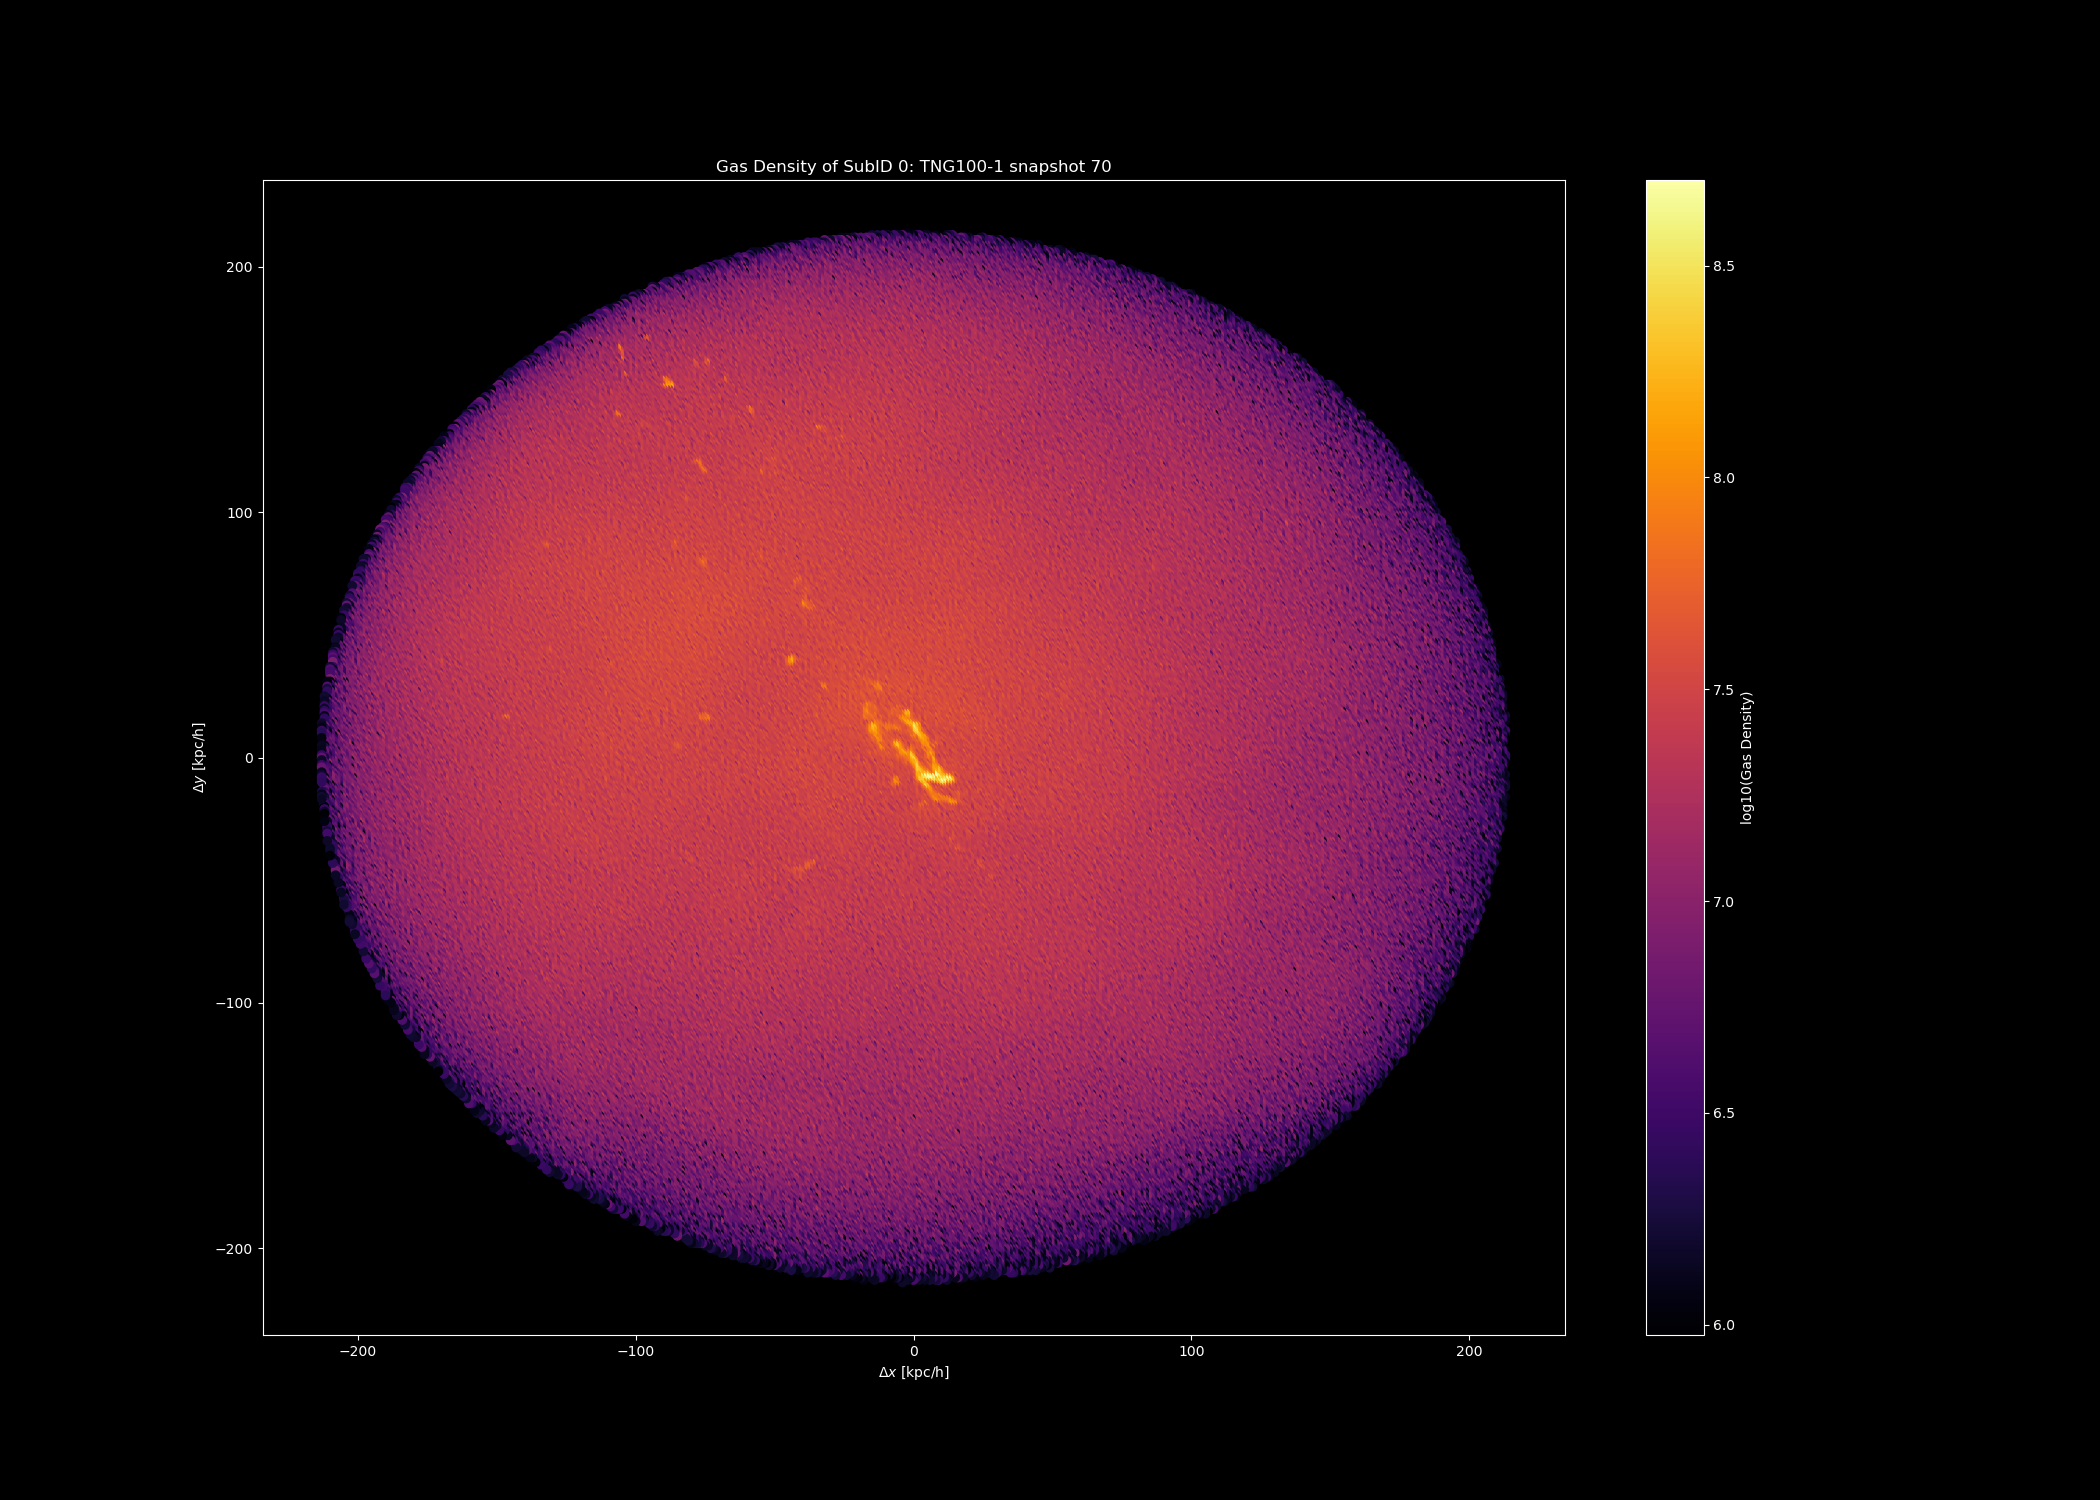
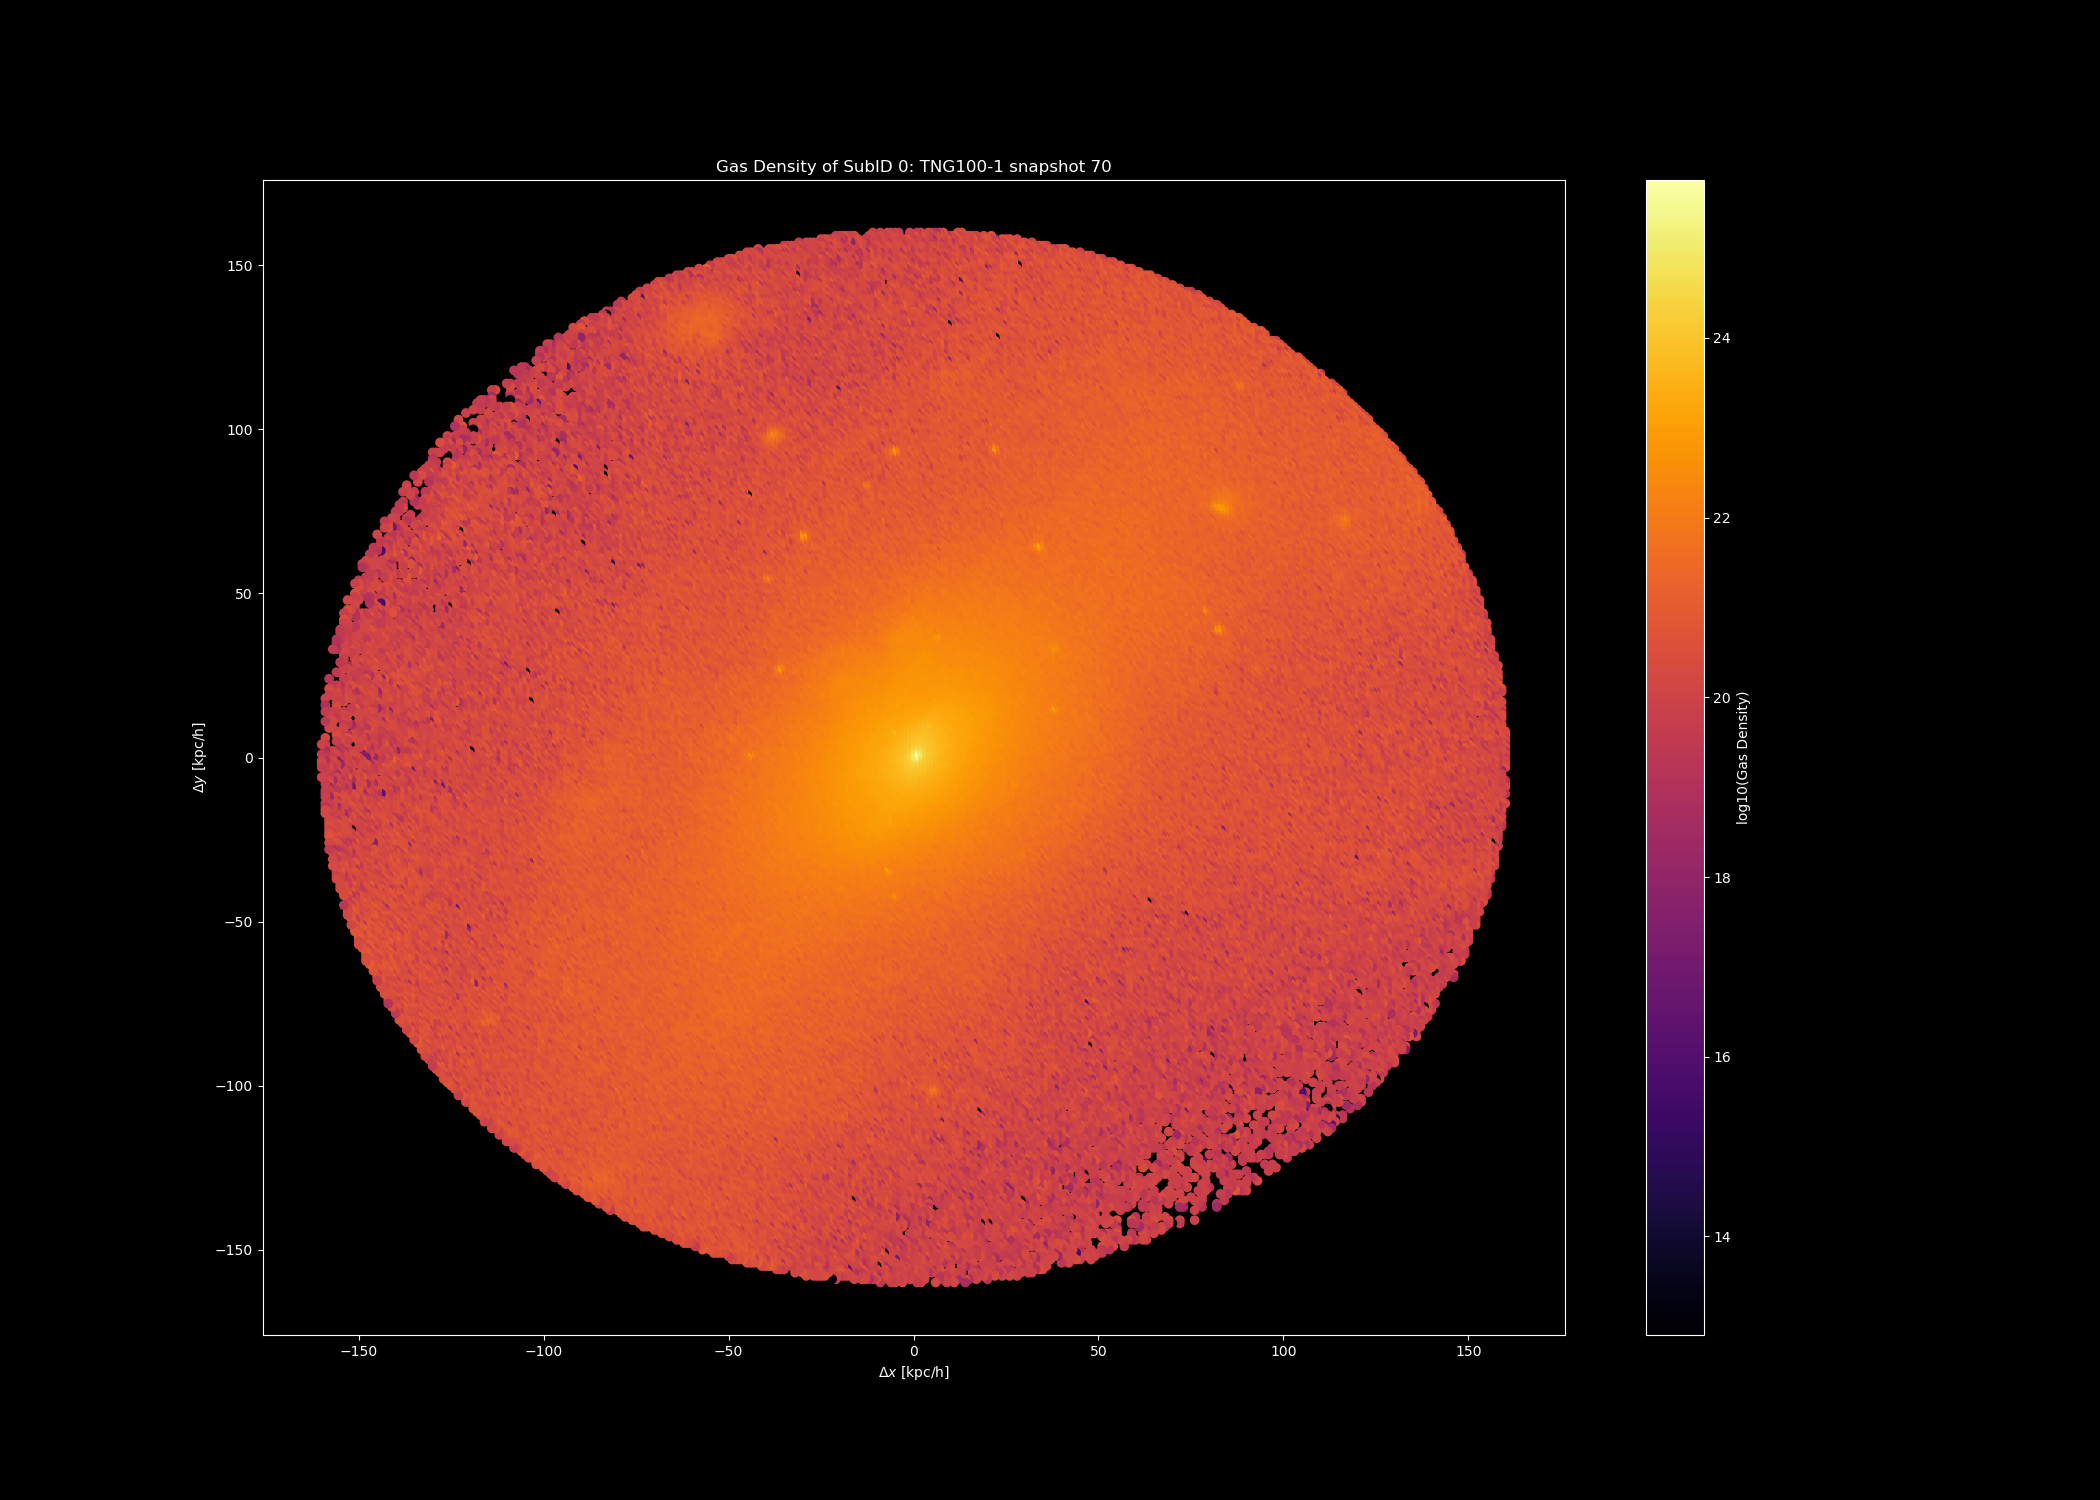
metallicity plots complete

Changed region(s): [[0.1238, 0.1533, 0.7429, 0.8587], [0.8048, 0.46, 0.8357, 0.552]]

diff --git a/class_il/classrad.py b/class_il/classrad.py
@@ -1,5 +1,6 @@
 
-import logging # http logging for debugging purpouses
+import logging
+from random import random # http logging for debugging purpouses
 import time #runtime calculation import numpy as np #data handling 
 import requests #obtain data from API server
 import h5py #binary file manipulation
@@ -76,8 +77,8 @@ class galaxy:
         # Velocities  (N,3) km sqrt(scalefac)        # We convert these to pkpc (proper kpc), Msun and km/s, respectively
         crit_dist = 5 * self.Rhalf #30. # proper kpc
         self.crit_dist = crit_dist
-        hcoldgas  = np.where( (gas['StarFormationRate'] > 0.) & (np.sum((gas['Coordinates']/hubble / (1. + redshift) - self.centre[None,:])**2, axis=1) < crit_dist**2) )[0]
-        #hcoldgas  = (np.sum((gas['Coordinates']/hubble / (1. + redshift) - self.centre[None,:])**2, axis=1) < crit_dist**2)
+        #hcoldgas  = np.where( (gas['StarFormationRate'] > 0.) & (np.sum((gas['Coordinates']/hubble / (1. + redshift) - self.centre[None,:])**2, axis=1) < crit_dist**2) )[0]
+        hcoldgas  = (np.sum((gas['Coordinates']/hubble / (1. + redshift) - self.centre[None,:])**2, axis=1) < crit_dist**2)
         self.pgas_coo   = gas['Coordinates'][hcoldgas]/hubble / (1. + redshift)
         self.pgas_m     = gas['Masses'][hcoldgas] * 10**10 / hubble
         self.pgas_vel   = (gas['Velocities'][hcoldgas] * np.sqrt(scalefac)) - all_fields['SubhaloVel'][None,:]
@@ -87,12 +88,13 @@ class galaxy:
         self.pgas_met   =gas['GFM_Metallicity'][hcoldgas]
         
         # Load all stellar particle data
-        stars = il.snapshot.loadSubhalo(basePath, snapID, subID, 'stars', fields=['Coordinates', 'Masses', 'Velocities'])
+        stars = il.snapshot.loadSubhalo(basePath, snapID, subID, 'stars', fields=['Coordinates', 'Masses', 'Velocities','GFM_Metallicity' ])
         hstar = np.where( (np.sum((stars['Coordinates']/hubble / (1. + redshift) - self.centre[None,:])**2, axis=1) < crit_dist**2) )[0]
         self.pstar_coo   = stars['Coordinates'][hstar]/hubble / (1. + redshift)
         self.pstar_m     = stars['Masses'][hstar] * 10**10 / hubble
         self.pstar_vel   = (stars['Velocities'][hstar] * np.sqrt(scalefac)) - all_fields['SubhaloVel'][None,:]
         self.pstar_vel   = self.pstar_vel * self.conv_kms2kpcyr
+        self.pstar_met = stars['GFM_Metallicity'][hstar]
         
     def galcen(self):
         self.pgas_coo -= self.centre[None,:]
@@ -148,13 +150,16 @@ class galaxy:
     def radial_coo(self):
         self.pgas_rad_len   = np.sqrt(self.pgas_coo[:,0]**2+self.pgas_coo[:,1]**2)
         self.pstar_rad_len  = np.sqrt(self.pstar_coo[:,0]**2+self.pstar_coo[:,1]**2)
-    def xyzprop_df(self):
-        df=pd.DataFrame({"x": self.pgas_coo[:,0], "y":self.pgas_coo[:,1],"z":self.pgas_coo[:,2], "rad":self.pgas_rad_len,"m": self.pgas_m})
+    def xyzprop_df(self,type):
+        if (type=='met'):
+            df=pd.DataFrame({"x": self.pstar_coo[:,0], "y":self.pstar_coo[:,1],"z":self.pstar_coo[:,2], "rad":self.pstar_rad_len,"m": 10e9*self.pstar_met})
+        elif (type=='mass'):
+            df=pd.DataFrame({"x": self.pstar_coo[:,0], "y":self.pstar_coo[:,1],"z":self.pstar_coo[:,2], "rad":self.pstar_rad_len,"m": self.pstar_m})
         
         self.df = df
         return df
     def gas_plot(self,annuli_pc):
-            #self.ang_mom_align('gas')
+        
         annul1= annuli_pc*self.crit_dist
         df_valid = self.df[self.df['rad']<annul1]
         df_valid =df_valid.round()
@@ -162,7 +167,7 @@ class galaxy:
         plt.figure(figsize=(21,15))
         plt.style.use('dark_background')
             #plt.hist2d(data2['x'],data2['y'], weights=data2['m'],bins=[500,500],cmap = 'inferno',vmin=(min(data2['m'])),vmax = max(data2['m']))
-        plt.scatter(-df_valid['x'],-df_valid['y'],c=np.log10(df_valid['m']),cmap='inferno',vmin=1.01*(min(np.log10(df_valid['m']))), vmax=0.99*(max(np.log10(df_valid['m']))))
+        plt.scatter(-df_valid['x'],-df_valid['y'],c=(12+np.log10(df_valid['m'])),cmap='inferno')# vmin=min(df_valid['m']), vmax = max(df_valid['m']))
             #plt.plot(critical_radius,zeros,'g+', markersize=10,label='critical radius')
         plt.xlabel('$\Delta x$ [kpc/h]')
         plt.ylabel('$\Delta y$ [kpc/h]')
@@ -174,7 +179,7 @@ class galaxy:
         filename = 'temppng/TNG100_sub_{}.png'.format(sub1.subID)
         plt.savefig(filename)
         plt.close()
-    def met_grad(self,annuli_pc):
+    def met_grad_gas(self,annuli_pc):
         df=pd.DataFrame({"x": self.pgas_coo[:,0], "y":self.pgas_coo[:,1],"z":self.pgas_coo[:,2], "rad":self.pgas_rad_len,"metallicity": self.pgas_met})
         annul1= annuli_pc*self.crit_dist
         met_df = df[df['rad']<annul1]
@@ -187,8 +192,19 @@ class galaxy:
         plt.savefig(filename)
         plt.close()
         return print('.')
-            
-            
+    def met_grad_star(self,annuli_pc):
+        df =pd.DataFrame({"rad": self.pstar_rad_len,"met": self.pstar_met })
+        df= df.sample(frac=0.01,random_state=1)
+        annul1= annuli_pc*self.crit_dist
+        met_df = df[df['rad']<annul1]
+        plt.figure(figsize=(21,15))
+        plt.scatter(met_df['rad'], (met_df['met']), 'b.')
+        plt.xlabel('Radial Position')
+        plt.ylabel('metallicity')
+        filename = 'temppng/TNG100_metgrad__stellar_forsub_{}.png'.format(sub1.subID)
+        plt.savefig(filename)
+        plt.close()
+        return print('.')
             
 '''
 massive_url = "http://www.tng-project.org/api/TNG100-1/snapshots/70/subhalos/?order_by=-mass&sfr_gt=0.0/"
@@ -204,13 +220,18 @@ massive_ids = [0, 7516, 21013, 15129, 31129, 39628, 47416, 26558, 44002, 34668, 
 #print(len(sub1.pgas_coo))
 #print(len(sub1.pgas_met))
 
-for i in massive_ids:
-    sub1= galaxy('TNG100-1',70,i)
-    sub1.galcen()
-    sub1.ang_mom_align('gas')
-    sub1.radial_coo()
-    sub1.xyzprop_df()
-    sub1.met_grad(0.25)
+#for i in massive_ids:
+sub1= galaxy('TNG100-1',70,0)
+sub1.galcen()
+sub1.ang_mom_align('stars')
+sub1.radial_coo()
+sub1.xyzprop_df('met')
+sub1.gas_plot(0.75)
+print(sub1.pgas_met)
+
+print(min(sub1.pstar_coo[:,0]))
+print(max(sub1.pstar_coo[:,0]))
+print(len(sub1.pstar_rad_len))
 end = time.time()
 print('runtime = {} seconds'.format(end-start))
 
